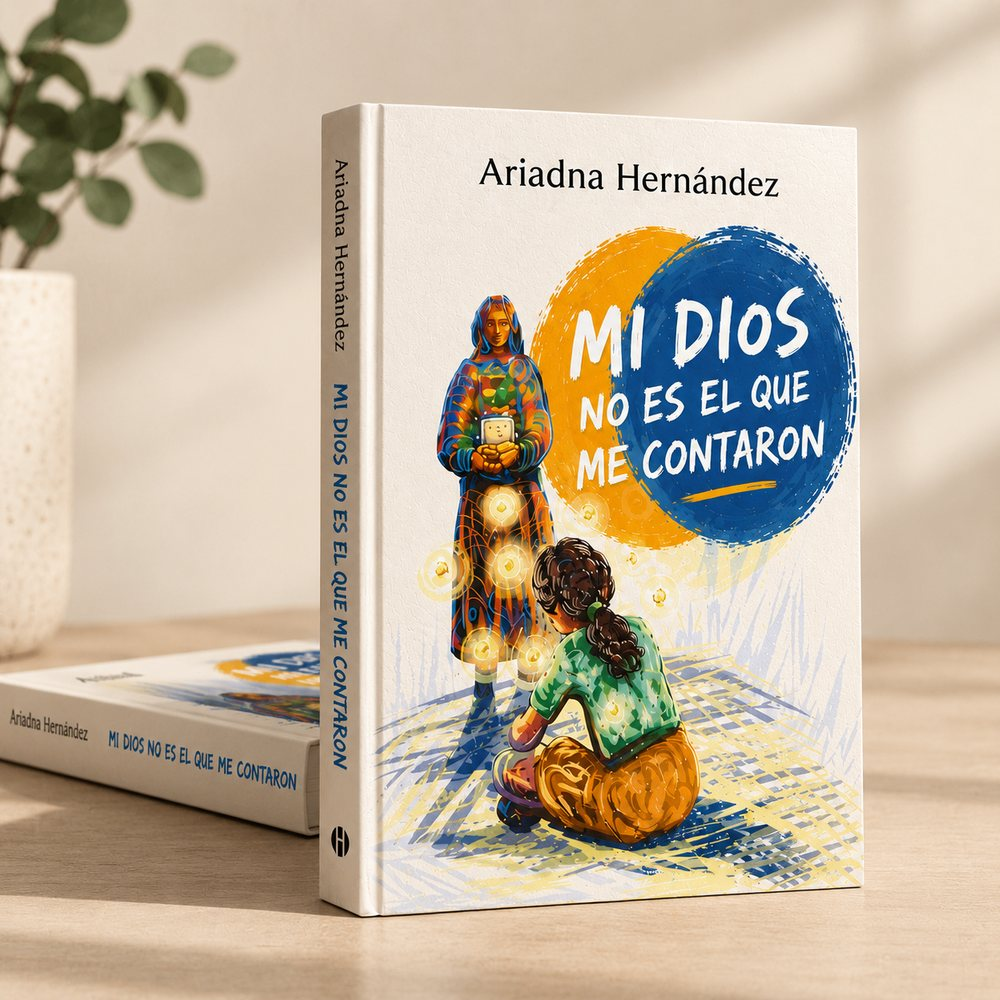
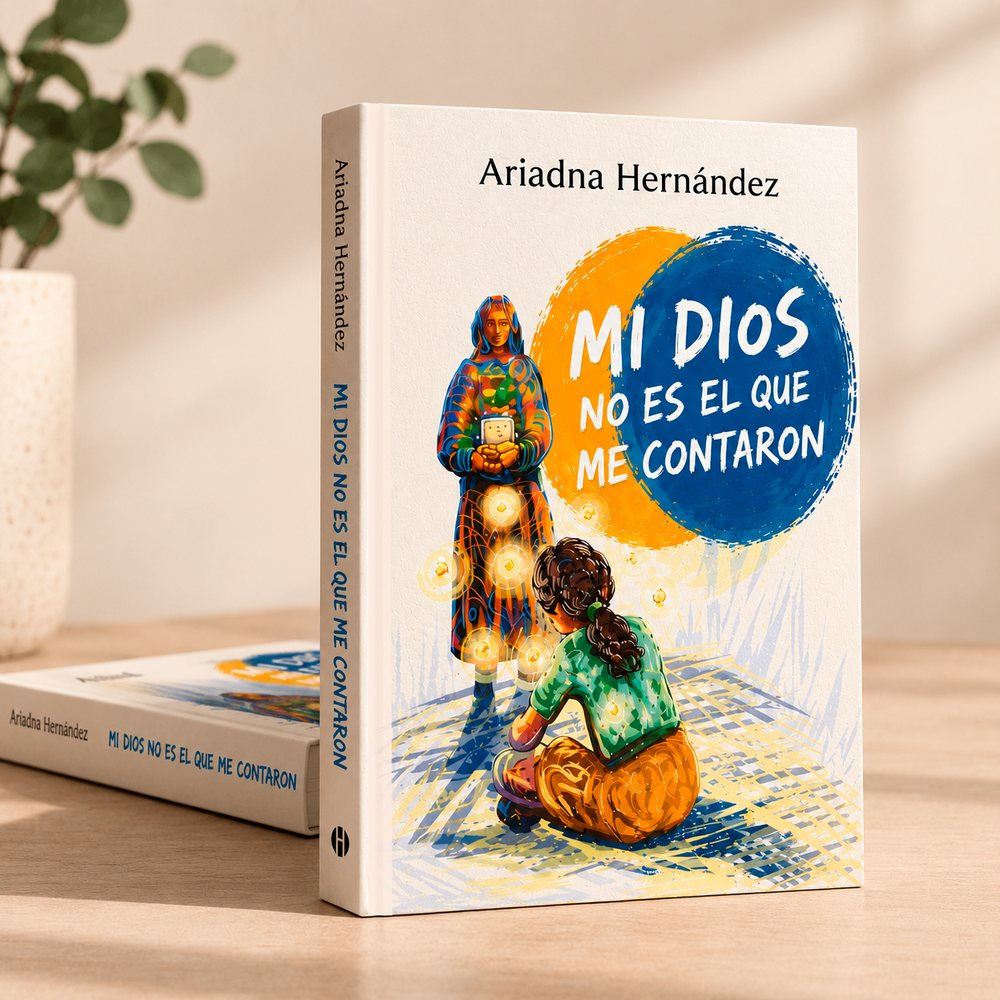
Actualiza imágenes del libro a pasta blanda
Claude-Session: https://claude.ai/code/session_012K8yrLR6tMnF4tzX6tA6pP

diff --git a/README.md b/README.md
@@ -1,6 +1,6 @@
 # Mi Dios no es el que me contaron — sitio del libro
 
-Sitio de venta del libro de **Ariadna Hernández**. Misma base que Faro del Infinito: React + Vite en Vercel, con Google Apps Script como backend y Mercado Pago Checkout Pro para cobrar.
+Sitio de venta del libro de **Ariadna Hernández**. Hecho con React + Vite y publicado en Vercel; la venta se hace en Mercado Libre.
 
 ## Qué hace
 
